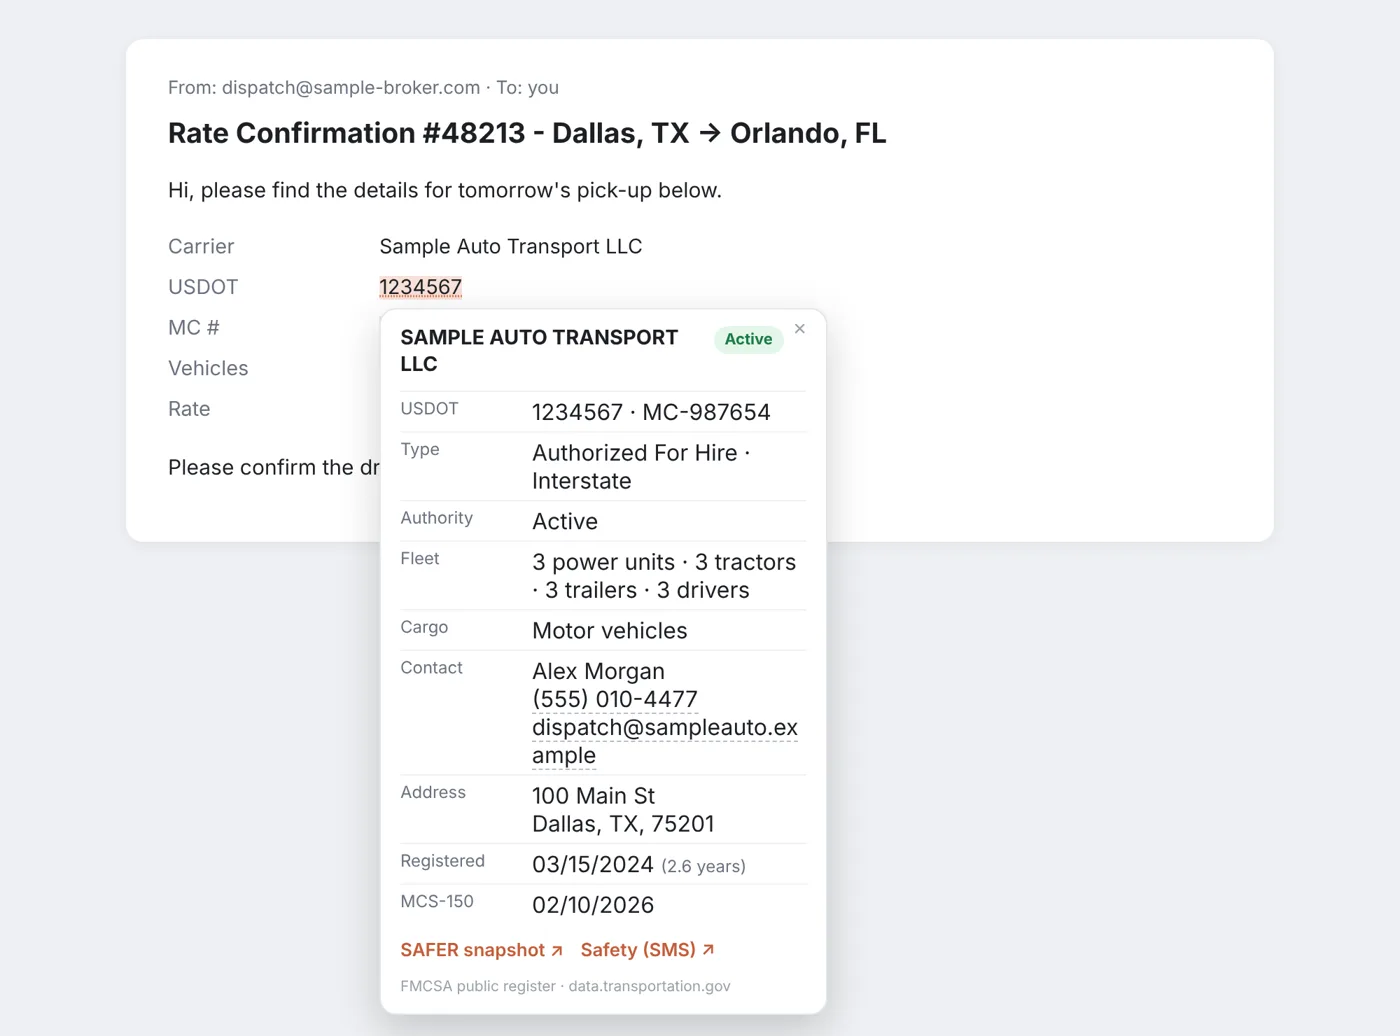
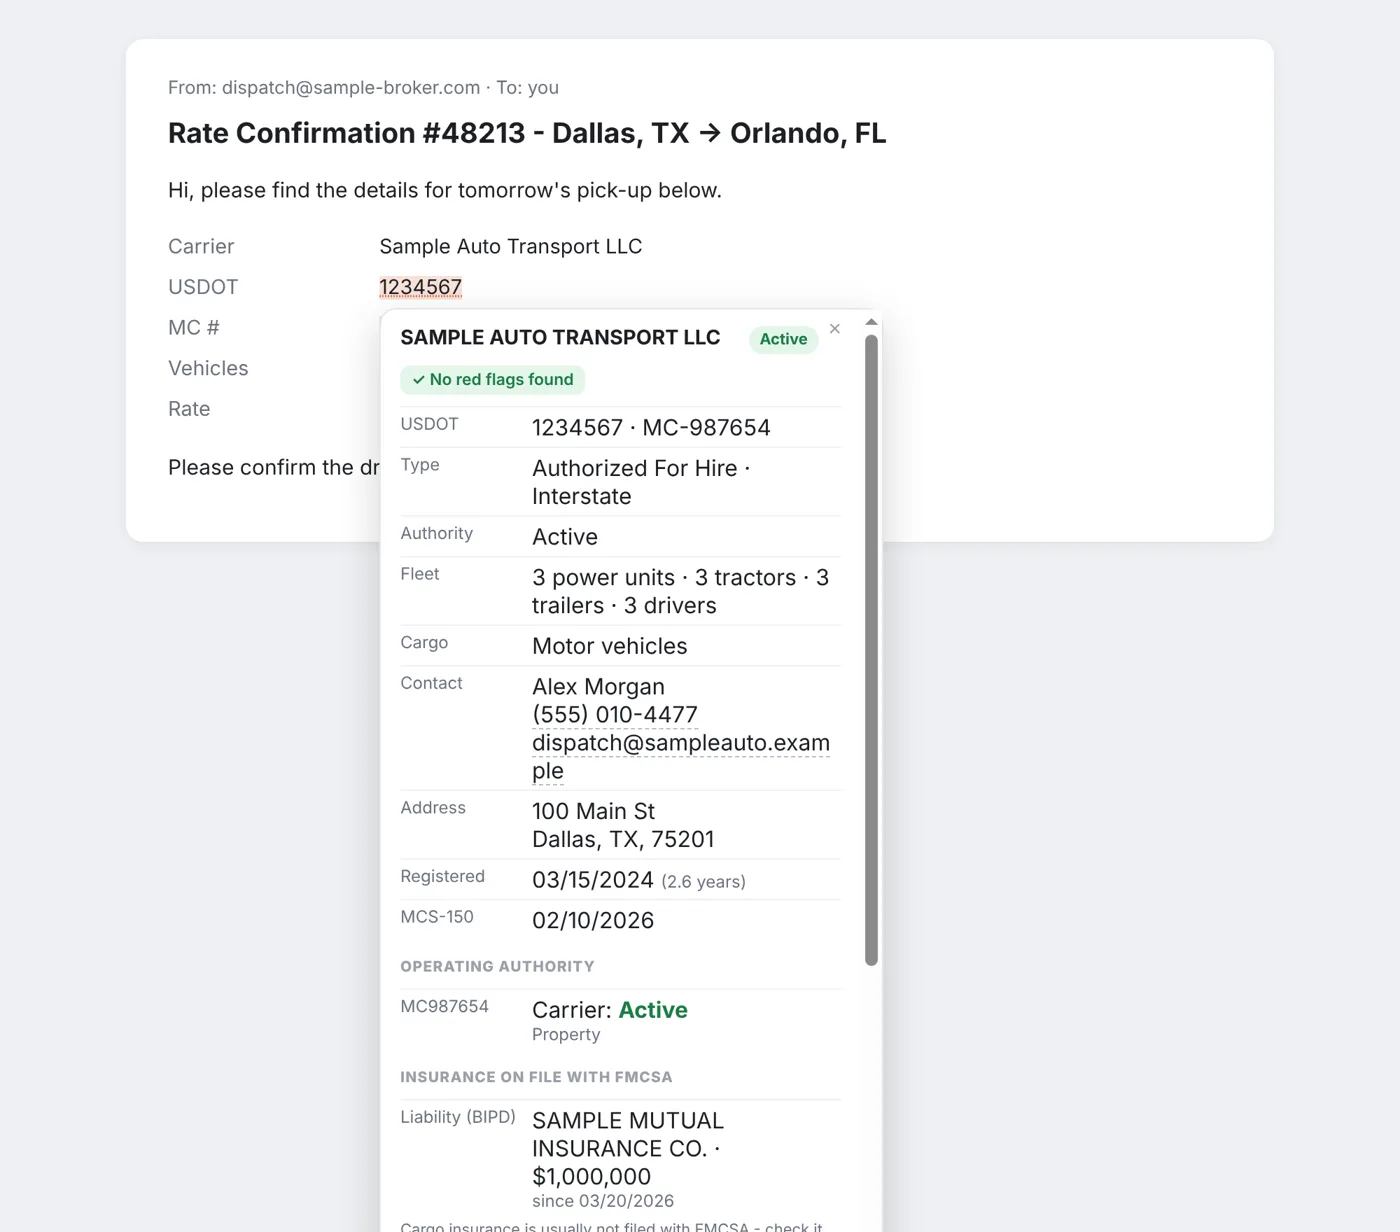
Add files via upload

diff --git a/index.html b/index.html
@@ -186,6 +186,13 @@
   .shots figcaption{color:var(--text3);font-size:14px;padding:10px 4px 2px}
   .shots .col{display:grid;gap:18px}
   @media(max-width:900px){.shots{grid-template-columns:1fr}}
+  .optTip{display:flex;gap:16px;align-items:flex-start;margin-top:18px;background:var(--tint);border:1px solid rgba(255,138,61,.3);border-radius:16px;padding:18px 20px;color:var(--text2);font-size:15px}
+  .optTip .k{flex-shrink:0;font-family:"Space Grotesk",Inter,sans-serif;font-weight:700;color:var(--accent);background:#1A1A1E;border:1px solid rgba(255,138,61,.45);border-bottom-width:3px;border-radius:10px;padding:6px 12px;white-space:nowrap}
+  .optTip b{color:var(--fg)}
+  @media(max-width:600px){.optTip{flex-direction:column}}
+  .shots{grid-template-columns:repeat(2,1fr)}
+  .shots figure img[style*='max-width:300px']{max-width:340px!important}
+  @media(max-width:700px){.shots{grid-template-columns:1fr}}
   .install{counter-reset:i;display:grid;gap:12px;max-width:760px}
   .install li{list-style:none;background:var(--bg2);border:1px solid var(--line);border-radius:14px;padding:16px 18px 16px 58px;position:relative;color:var(--text2)}
   .install li:before{counter-increment:i;content:counter(i);position:absolute;left:16px;top:14px;width:28px;height:28px;border-radius:8px;background:var(--tint);color:var(--accent);font-weight:700;display:grid;place-items:center}
@@ -276,7 +283,7 @@
   </a>
   <div class="projGrid">
     <div class="pj"><span class="ti">🔎</span><h3>DOT/MC Lookup</h3>
-      <p>Browser extension for dispatchers and brokers. It spots USDOT and MC numbers on any page - load boards, emails, rate confirmations - and shows the carrier's FMCSA profile in one click: status, authority, trucks, contacts.</p>
+      <p>Browser extension for dispatchers and brokers. Hover any USDOT or MC number - on load boards, emails, rate confirmations - to see the carrier's authority, insurance, safety record and red flags from FMCSA data. Free and unlimited.</p>
       <div class="chips"><span>Chrome extension</span><span>FMCSA data</span><span>Free</span></div>
       <a href="#dot">See how it works →</a></div>
     <div class="pj"><span class="ti">🚚</span><h3>New carrier finder</h3>
@@ -307,55 +314,56 @@
 <header class="hero"><div class="wrap">
   <a class="back" href="#top">← All projects</a>
   <div>
-    <span class="eyebrow"><i></i>Free browser extension</span>
-    <h1>Know the carrier <em>before you pick up the phone.</em></h1>
-    <p class="lead">DOT/MC Lookup finds USDOT and MC numbers on any web page - load boards, broker emails, rate confirmations, carrier lists - and shows the carrier's official FMCSA profile in one click. No more copy, paste and search on SAFER.</p>
+    <span class="eyebrow"><i></i>Free browser extension · unlimited lookups</span>
+    <h1>Vet any carrier <em>before you pick up the phone.</em></h1>
+    <p class="lead">DOT/MC Lookup underlines USDOT and MC numbers on any web page - load boards, broker emails, rate confirmations. Hover one and see the carrier's authority, insurance, safety record and red flags from official FMCSA data. No copy-paste, no daily limits.</p>
     <div class="ctas">
       <a class="btn primary" href="dot-mc-lookup.zip" download>Download for Chrome</a>
       <a class="btn ghost" href="#dot-install">How to install</a>
     </div>
     <div class="proof">
-      <div><b>1 click</b><span>from number to profile</span></div>
-      <div><b>Free</b><span>no account, no key</span></div>
-      <div><b>0</b><span>changes to the page</span></div>
+      <div><b>Hover</b><span>no clicks, no menus</span></div>
+      <div><b>Unlimited</b><span>free, no account</span></div>
+      <div><b>24 mo</b><span>of inspections & crashes</span></div>
     </div>
   </div>
-  <img class="shotMain" src="dot-hero.webp" alt="DOT/MC Lookup card showing a carrier's FMCSA profile over a rate confirmation" width="1000" height="1172">
+  <img class="shotMain" src="dot-hero.webp" alt="DOT/MC Lookup card with a carrier's FMCSA profile over a rate confirmation" width="1000" height="1269">
 </div></header>
 
 <section id="dot-how"><div class="wrap">
-  <div class="sechead"><span class="tag">How it works</span><h2>Browse as usual. Click a number.</h2><p>It works on the sites you already use - nothing to set up.</p></div>
+  <div class="sechead"><span class="tag">How it works</span><h2>Browse as usual. Hover a number.</h2><p>It works on the sites you already use - nothing to set up.</p></div>
   <div class="steps">
-    <div class="step"><div class="n">1</div><h3>Add it to your browser</h3><p>Chrome, Brave, Edge or Opera. One orange magnifier appears in the toolbar.</p></div>
+    <div class="step"><div class="n">1</div><h3>Add it to your browser</h3><p>Chrome, Brave, Edge or Opera. An orange magnifier appears in the toolbar.</p></div>
     <div class="step"><div class="n">2</div><h3>Numbers get underlined</h3><p>"USDOT 1234567", "MC# 987654", or a number under an "MC Number" column - it recognises them all.</p></div>
-    <div class="step"><div class="n">3</div><h3>Hover for the profile</h3><p>Rest the mouse on a number - status, authority, trucks and drivers, cargo, phone, email and how long they've been in business.</p></div>
+    <div class="step"><div class="n">3</div><h3>Hover for the profile</h3><p>Rest the mouse on a number for a moment - the carrier card opens right there. Move away and it closes.</p></div>
   </div>
+  <div class="optTip"><span class="k">⌥ Option</span><div><b>Company name instead of a number?</b> Hold <b>Option</b> (Alt on Windows) and hover over the name - an exact match opens its card straight away, otherwise you get a short list to pick from. You can also select the name and right-click → <b>Look up carrier</b>.</div></div>
 </div></section>
 
 <section id="dot-shots" style="padding-top:20px"><div class="wrap">
   <div class="sechead"><span class="tag">Screenshots</span><h2>What you'll see</h2></div>
   <div class="shots">
-    <figure><img src="dot-card.webp" alt="Carrier card over a broker email" loading="lazy"><figcaption>Hover over a USDOT or MC number in an email or a rate confirmation - the carrier card opens right there.</figcaption></figure>
-    <div class="col">
-      <figure><img src="dot-popup.webp" alt="Search box in the toolbar popup" loading="lazy" style="max-width:300px;margin:0 auto"><figcaption>Search by USDOT, MC or company name in the toolbar popup. Recent lookups stay one click away - and "Clear" wipes them.</figcaption></figure>
-    </div>
-    <figure style="grid-column:1/-1"><img src="dot-table.webp" alt="MC numbers highlighted in a table" loading="lazy"><figcaption>Numbers in tables are found by their column - and order numbers or ZIP codes are left alone.</figcaption></figure>
+    <figure><img src="dot-card.webp" alt="Carrier card over a broker email" loading="lazy"><figcaption>Hover a USDOT or MC number in an email or a rate confirmation - the carrier card opens right there.</figcaption></figure>
+    <figure><img src="dot-flags.webp" alt="Red flags: no insurance, new carrier, high out-of-service rates" loading="lazy" style="max-width:300px;margin:0 auto"><figcaption>Red flags at the top: no insurance on file, brand-new authority, high out-of-service rates, pending revocation.</figcaption></figure>
+    <figure><img src="dot-good.webp" alt="Authority, insurance and safety section" loading="lazy" style="max-width:300px;margin:0 auto"><figcaption>Authority, insurance and a 24-month safety summary - and "Copy summary" for your notes or the broker.</figcaption></figure>
+    <figure><img src="dot-popup.webp" alt="Company name search in the toolbar popup" loading="lazy" style="max-width:300px;margin:0 auto"><figcaption>Search by USDOT, MC or company name in the toolbar popup. Recent lookups stay one click away - "Clear" wipes them.</figcaption></figure>
+    <figure style="grid-column:1/-1"><img src="dot-table.webp" alt="MC numbers highlighted in a table" loading="lazy"><figcaption>Numbers in tables are found by their column - order numbers and ZIP codes are left alone.</figcaption></figure>
   </div>
-  <p style="color:var(--text3);font-size:13px;margin-top:12px">Screenshots use a made-up sample carrier.</p>
+  <p style="color:var(--text3);font-size:13px;margin-top:12px">Screenshots use made-up sample carriers.</p>
 </div></section>
 
 <section id="dot-features" style="padding-top:20px"><div class="wrap">
-  <div class="sechead"><span class="tag">Features</span><h2>Small tool, saves time every day</h2></div>
+  <div class="sechead"><span class="tag">Features</span><h2>Everything you check before booking</h2></div>
   <div class="feat">
-    <div><div class="ic">🔎</div><h3>Works everywhere</h3><p>Load boards, Gmail and Outlook on the web, broker portals, carrier lists - any regular web page.</p></div>
-    <div><div class="ic">🪪</div><h3>Official data</h3><p>Straight from the FMCSA carrier register published by the US DOT - the same source as SAFER.</p></div>
-    <div><div class="ic">✅</div><h3>Spot red flags fast</h3><p>Inactive status, no authority, a carrier registered two weeks ago - visible before you book.</p></div>
-    <div><div class="ic">🏢</div><h3>Search by company name</h3><p>No number on the page? Hold Alt (Option on a Mac) and hover over the company name - an exact match opens its card. Right-click "Look up carrier" and the popup search work too.</p></div>
-    <div><div class="ic">📋</div><h3>Copy in one tap</h3><p>Click the phone or email in the card to copy it. Links to SAFER and the FMCSA safety page included.</p></div>
-    <div><div class="ic">🛡</div><h3>Private and light</h3><p>No account, no tracking. It only asks the FMCSA register about the number or name you look up.</p></div>
-    <div><div class="ic">🧩</div><h3>Leaves pages alone</h3><p>Highlighting is drawn by the browser on top of the text, so sites keep working exactly as before.</p></div>
-    <div><div class="ic">🌙</div><h3>Light and dark</h3><p>The card follows your system theme, so it fits any page and any time of day.</p></div>
-    <div><div class="ic">⚡</div><h3>Instant repeat lookups</h3><p>Recent results are remembered for a few hours, and your last searches stay one click away in the popup.</p></div>
+    <div><div class="ic">🚩</div><h3>Red flags first</h3><p>No liability insurance, inactive or brand-new authority, revocation pending, high out-of-service rates, fatal crashes - shown at the top of the card.</p></div>
+    <div><div class="ic">🛡</div><h3>Insurance on file</h3><p>Liability (BIPD) and other filings: insurer, coverage amount, effective date - and a warning when a policy is about to be cancelled.</p></div>
+    <div><div class="ic">🪪</div><h3>Operating authority</h3><p>Carrier, contract and broker authority with their status, plus pending applications - handy for checking brokers too.</p></div>
+    <div><div class="ic">📊</div><h3>Safety record</h3><p>Inspections, vehicle and driver out-of-service rates next to the US average, and crashes from the last 24 months.</p></div>
+    <div><div class="ic">🏢</div><h3>Search by company name</h3><p>Hold Option (Alt) and hover over a name, right-click "Look up carrier", or type it in the popup.</p></div>
+    <div><div class="ic">📋</div><h3>Copy summary</h3><p>One click copies name, USDOT/MC, insurance, safety and flags as text - paste it into notes, Slack or an email.</p></div>
+    <div><div class="ic">♾</div><h3>Unlimited and free</h3><p>No account, no daily cap. Official data from the US DOT's open FMCSA register - the same source as SAFER.</p></div>
+    <div><div class="ic">🧩</div><h3>Leaves pages alone</h3><p>Highlighting is drawn by the browser on top of the text, so load boards and web apps keep working exactly as before.</p></div>
+    <div><div class="ic">🌙</div><h3>Light and dark</h3><p>The card follows your system theme. Recent lookups stay in the popup until you clear them.</p></div>
   </div>
 </div></section>
 
@@ -365,18 +373,19 @@
     <li><a href="dot-mc-lookup.zip" download style="color:var(--accent);font-weight:700">Download the zip</a> and unzip it to a folder that will stay (for example Documents).</li>
     <li>Open <code>chrome://extensions</code> (Brave: <code>brave://extensions</code>, Edge: <code>edge://extensions</code>) and switch on <b>Developer mode</b>.</li>
     <li>Click <b>Load unpacked</b> and choose the <code>dot-mc-lookup</code> folder.</li>
-    <li>Pin the orange magnifier to the toolbar and reload the page you work on.</li>
+    <li>Pin the orange magnifier to the toolbar and <b>reload the pages</b> you work on.</li>
   </ol>
 </div></section>
 
 <section id="dot-faq" style="padding-top:20px"><div class="wrap">
   <div class="sechead"><span class="tag">FAQ</span><h2>Questions</h2></div>
   <div class="faq">
-    <details><summary>Is it really free?</summary><p>Yes. No account, no subscription, no ads.</p></details>
-    <details><summary>Where does the data come from?</summary><p>The FMCSA Company Census File - the official carrier register the US DOT publishes as open data. A brand-new carrier can take a few days to appear there.</p></details>
+    <details><summary>Is it really free and unlimited?</summary><p>Yes. No account, no daily limit, no ads.</p></details>
+    <details><summary>Where does the data come from?</summary><p>The FMCSA open data the US DOT publishes on data.transportation.gov: the carrier register, licensing and insurance filings, and roadside inspection and crash records. A brand-new carrier can take a few days to appear.</p></details>
+    <details><summary>How do I look up a company by name?</summary><p>Hold Option (Alt on Windows) and hover over the name. Or select it, right-click and choose "Look up carrier", or type it in the toolbar popup.</p></details>
+    <details><summary>Does "no red flags" mean the carrier is safe?</summary><p>It means nothing alarming is in the public FMCSA records. Always get the carrier's own certificate of insurance - cargo insurance, for example, usually isn't filed with FMCSA.</p></details>
     <details><summary>A number is a link on the page - how do I open the card?</summary><p>Just hover over it - the card opens after a moment. A normal click still opens the link as usual.</p></details>
-    <details><summary>Nothing is underlined on a page. Why?</summary><p>Reload the page once after installing or updating the extension. Then click the toolbar icon - it tells you how many numbers it found. Many load boards show only the company name: select it, right-click and choose "Look up carrier".</p></details>
-    <details><summary>Can I turn the underlining off?</summary><p>Yes - switch off "Highlight on pages" in the toolbar popup. The search box keeps working.</p></details>
+    <details><summary>Nothing is underlined on a page. Why?</summary><p>Reload the page once after installing or updating. Then click the toolbar icon - it tells you how many numbers it found. Many load boards show only the company name: use Option + hover on it.</p></details>
     <details><summary>Can you build something like this for my team?</summary><p>Sure - extensions, bots and automations are what I do. <a href="#contact" style="color:var(--accent)">Tell me what slows you down</a>.</p></details>
   </div>
 </div></section>
